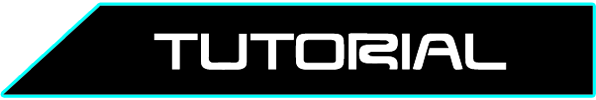
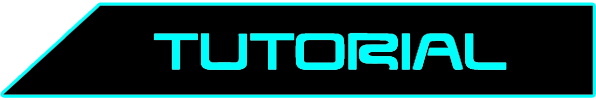
:lipstick: Update Menu State.

Changed region(s): [[0.2416, 0.33, 0.8758, 0.72]]

diff --git a/core/src/com/mygdx/game/MenuState.java b/core/src/com/mygdx/game/MenuState.java
@@ -18,7 +18,7 @@ public class MenuState extends State {
 	public void init() {
 		// TODO Auto-generated method stub
 		bg = new Sprite(new Texture(Gdx.files.internal("../core/assets/background/MenuBackground.png")));
-		playOption = new Sprite(new Texture(Gdx.files.internal("../core/assets/gui/menu/battlemenu1.png")));
+		playOption = new Sprite(new Texture(Gdx.files.internal("../core/assets/gui/menu/battlemenu1-2.png")));
 		tutorialOption = new Sprite(new Texture(Gdx.files.internal("../core/assets/gui/menu/tutorialmenu1.png")));
 		exitOption = new Sprite(new Texture(Gdx.files.internal("../core/assets/gui/menu/exitmenu1.png")));
 	}
@@ -30,8 +30,11 @@ public class MenuState extends State {
 		batch.begin();
 		bg.draw(batch);
 		playOption.draw(batch);
+		playOption.setPosition(730f, 550f);
 		tutorialOption.draw(batch);
+		tutorialOption.setPosition(730f, 350f);
 		exitOption.draw(batch);
+		exitOption.setPosition(730f, 150f);
 		batch.end();
 		
 
@@ -51,31 +54,43 @@ public class MenuState extends State {
 		if (InputManager.keyIspressed(InputManager.KEY_DOWN) && playSelected == true) {
 			tutorialSelected = true;
 			playSelected = false;
+			tutorialOption.setTexture(new Texture(Gdx.files.internal("../core/assets/gui/menu/tutorialmenu1-2.png")));
+			playOption.setTexture(new Texture(Gdx.files.internal("../core/assets/gui/menu/battlemenu1.png")));
 		}
 		
 		else if (InputManager.keyIspressed(InputManager.KEY_UP) && playSelected == true) {
 			exitSelected = true;
 			playSelected = false;
+			exitOption.setTexture(new Texture(Gdx.files.internal("../core/assets/gui/menu/exitmenu1-2.png")));
+			playOption.setTexture(new Texture(Gdx.files.internal("../core/assets/gui/menu/battlemenu1.png")));
 		}
 		
 		else if (InputManager.keyIspressed(InputManager.KEY_DOWN) && tutorialSelected == true) {
 			exitSelected = true;
 			tutorialSelected = false;
+			exitOption.setTexture(new Texture(Gdx.files.internal("../core/assets/gui/menu/exitmenu1-2.png")));
+			tutorialOption.setTexture(new Texture(Gdx.files.internal("../core/assets/gui/menu/tutorialmenu1.png")));
 		}
 		
 		else if (InputManager.keyIspressed(InputManager.KEY_UP) && tutorialSelected == true) {
 			playSelected = true;
 			tutorialSelected = false;
+			playOption.setTexture(new Texture(Gdx.files.internal("../core/assets/gui/menu/battlemenu1-2.png")));
+			tutorialOption.setTexture(new Texture(Gdx.files.internal("../core/assets/gui/menu/tutorialmenu1.png")));
 		}
 		
 		else if (InputManager.keyIspressed(InputManager.KEY_DOWN) && exitSelected == true) {
 			exitSelected = false;
 			playSelected = true;
+			exitOption.setTexture(new Texture(Gdx.files.internal("../core/assets/gui/menu/exitmenu1.png")));
+			playOption.setTexture(new Texture(Gdx.files.internal("../core/assets/gui/menu/battlemenu1-2.png")));
 		}
 		
 		else if (InputManager.keyIspressed(InputManager.KEY_UP) && exitSelected == true) {
 			exitSelected = false;
 			tutorialSelected = true;
+			exitOption.setTexture(new Texture(Gdx.files.internal("../core/assets/gui/menu/exitmenu1.png")));
+			tutorialOption.setTexture(new Texture(Gdx.files.internal("../core/assets/gui/menu/tutorialmenu1-2.png")));
 		}
 		
 
